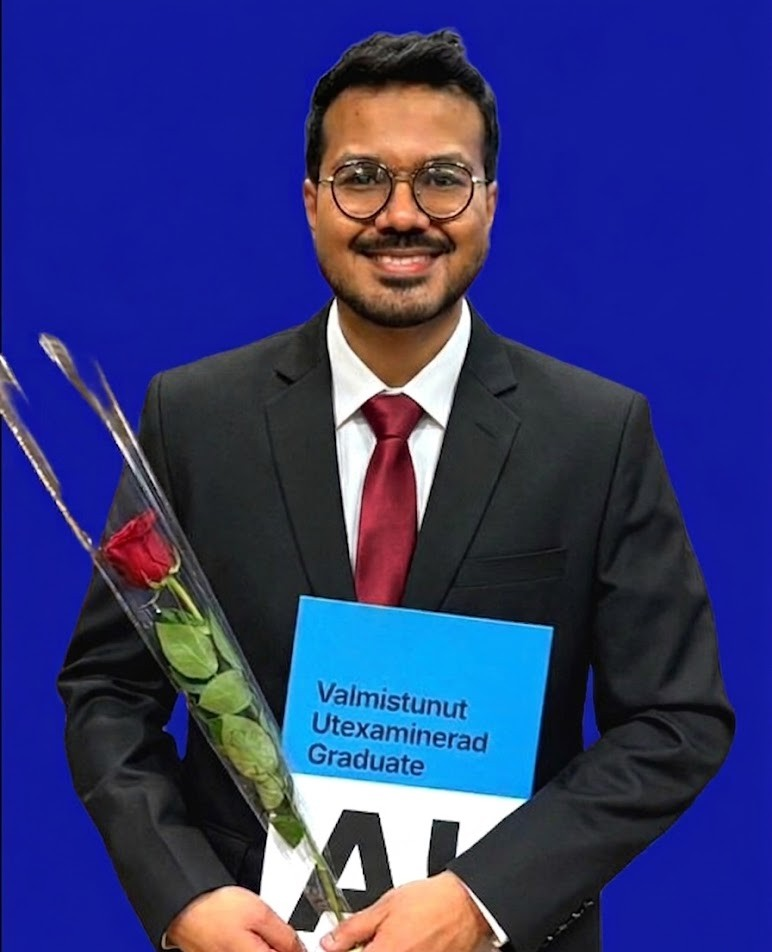
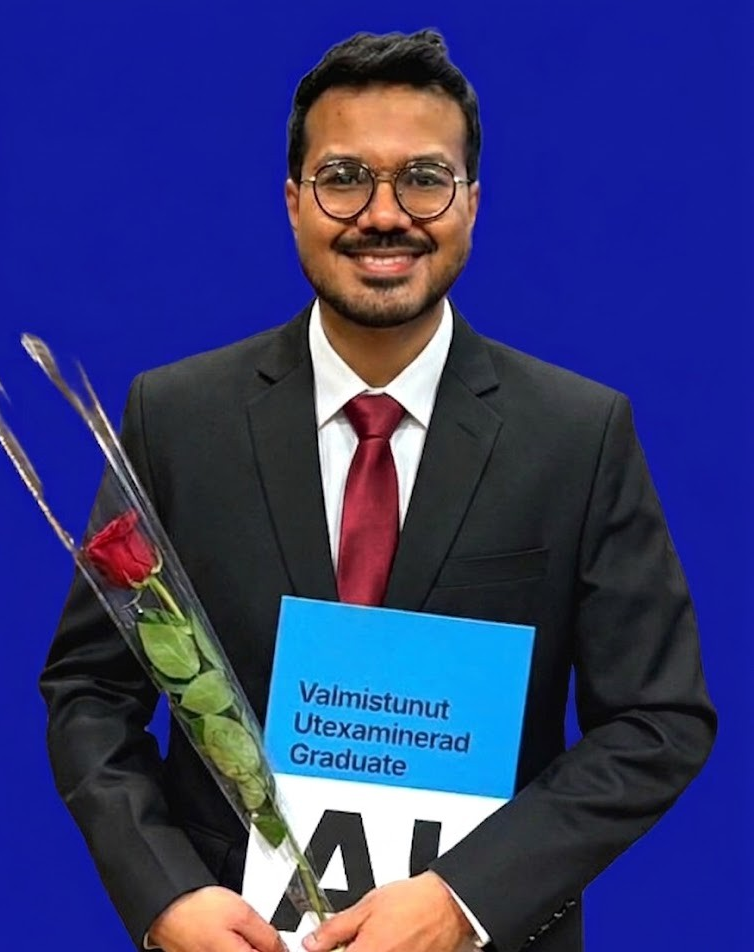
shiny featured

diff --git a/index.html b/index.html
@@ -236,8 +236,8 @@ body.page-loaded {
   /* Ensure the GIF fills the card properly */
   .project-card img {
     display: block;
-  height: 200px;
-  width: 350px;
+    height: 200px;
+    width: 350px;
     object-fit: cover;
     pointer-events: none; /* Crucial for the mouse tracking to work */
   }
@@ -257,10 +257,46 @@ body.page-loaded {
     pointer-events: none;
     opacity: 0;
     transition: opacity 0.4s ease-out;
+    z-index: 2;
+  }
+
+  /* Holographic/Shiny Effect */
+  .project-card::after {
+    content: "";
+    position: absolute;
+    top: 0;
+    left: -150%;
+    width: 200%;
+    height: 100%;
+    background: linear-gradient(
+      90deg,
+      transparent 0%,
+      rgba(255, 105, 180, 0.4) 20%,
+      rgba(100, 255, 255, 0.6) 50%,
+      rgba(255, 255, 100, 0.4) 80%,
+      transparent 100%
+    );
+    filter: blur(15px);
+    mix-blend-mode: overlay;
+    opacity: 0;
+    pointer-events: none;
+    transition: opacity 0.4s ease-out;
+    z-index: 3;
   }
 
   .project-tilt:hover .glare {
     opacity: 1;
+  }
+
+  .project-tilt:hover .project-card::after {
+    opacity: 1;
+    animation: holoSweep 4s ease-in-out infinite;
+  }
+
+  @keyframes holoSweep {
+    0% { transform: translateX(0%) skewX(-20deg); }
+    50% { transform: translateX(120%) skewX(-20deg); }
+    100% { transform: translateX(0%) skewX(-20deg); }
   }
 
 </style>